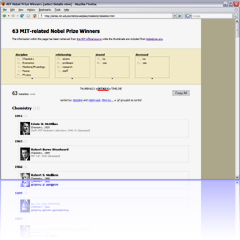
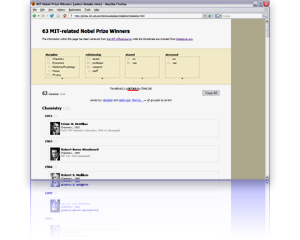
Updated home page. Better shadows and reflections.

diff --git a/exhibit/trunk/src/webapp/index.html b/exhibit/trunk/src/webapp/index.html
@@ -18,7 +18,6 @@
             cursor:         pointer;
         }
         p.example-image {
-            background: url(images/example-shadow.png) top center no-repeat;
         }
     </style>
     <script type="text/javascript">
@@ -30,6 +29,11 @@
                 .getElementsByTagName("img")[0].src =
                     "images/example-" + example + "-" + view + ".png";
         }
+        function onExampleViewClick() {
+            var example = this.getAttribute("example");
+            var href = document.getElementById("example-" + example + "-image").getElementsByTagName("a")[0].href;
+            window.open(href, "_blank");
+        }
         function onLoad() {
             var examples = [ "cereals", "nobelists", "presidents", "publications" ];
             for (var i = 0; i < examples.length; i++) {
@@ -37,6 +41,7 @@
                 var spans = div.getElementsByTagName("span");
                 for (var j = 0; j < spans.length; j++) {
                     spans[j].onmouseover = onExampleViewMouseOver;
+                    spans[j].onclick = onExampleViewClick;
                 }
             }
         }
@@ -72,7 +77,7 @@
     <p>Check out these diverse sample <em>exhibits</em>:</p>
     
     <center style="clear: both">
-        <table width="800" border="0" cellpadding="5" class="examples" style="margin-left: 50px;">
+        <table width="700" border="0" cellpadding="5" class="examples">
             <tr align="center">
                 <td width="50%">
                     <p class="example-heading"><a href="/exhibit/examples/cereals/cereal-characters.html" target="_blank">Breakfast Cereal Characters</a></p>
@@ -96,7 +101,7 @@
                 </td>
             </tr>
         </table>
-        <table width="800" border="0" cellpadding="5" class="examples" style="margin-right: 50px;">
+        <table width="700" border="0" cellpadding="5" class="examples">
             <tr align="center">
                 <td width="50%">
                     <p class="example-heading"><a href="examples/nobelists/nobelists.html" target="_blank">MIT-related Nobel Prize Winners</a></p>
